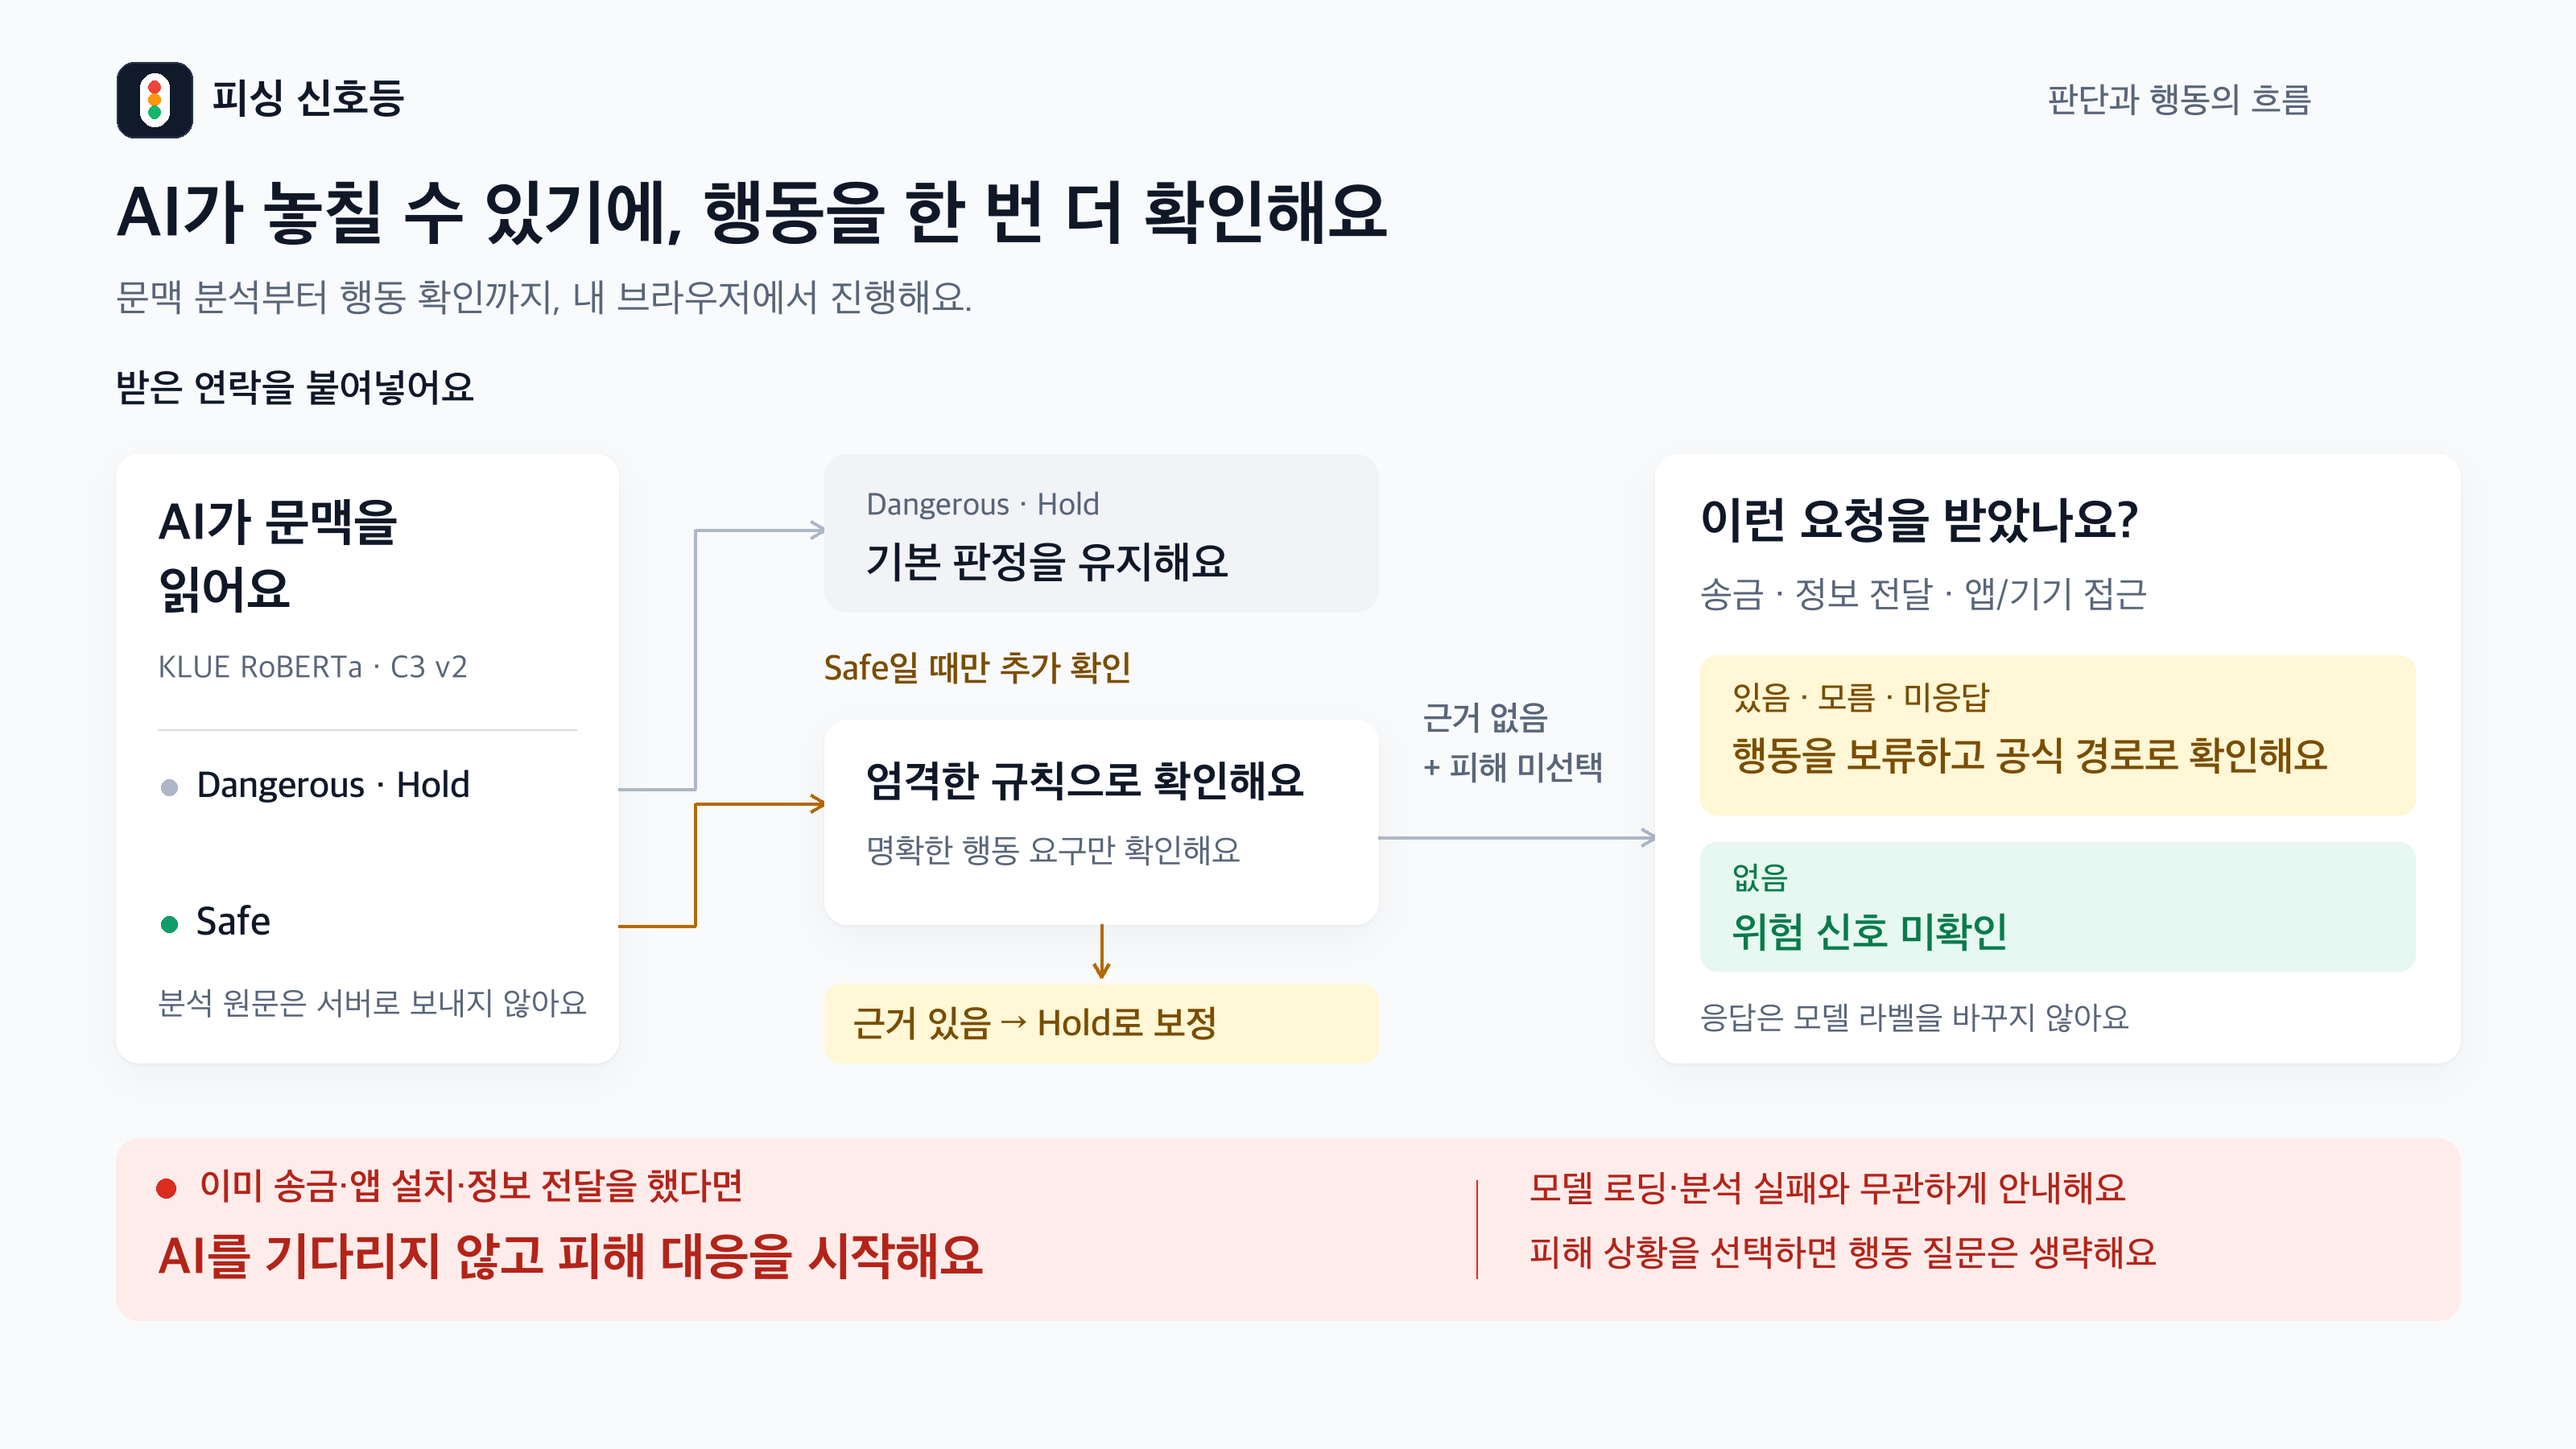
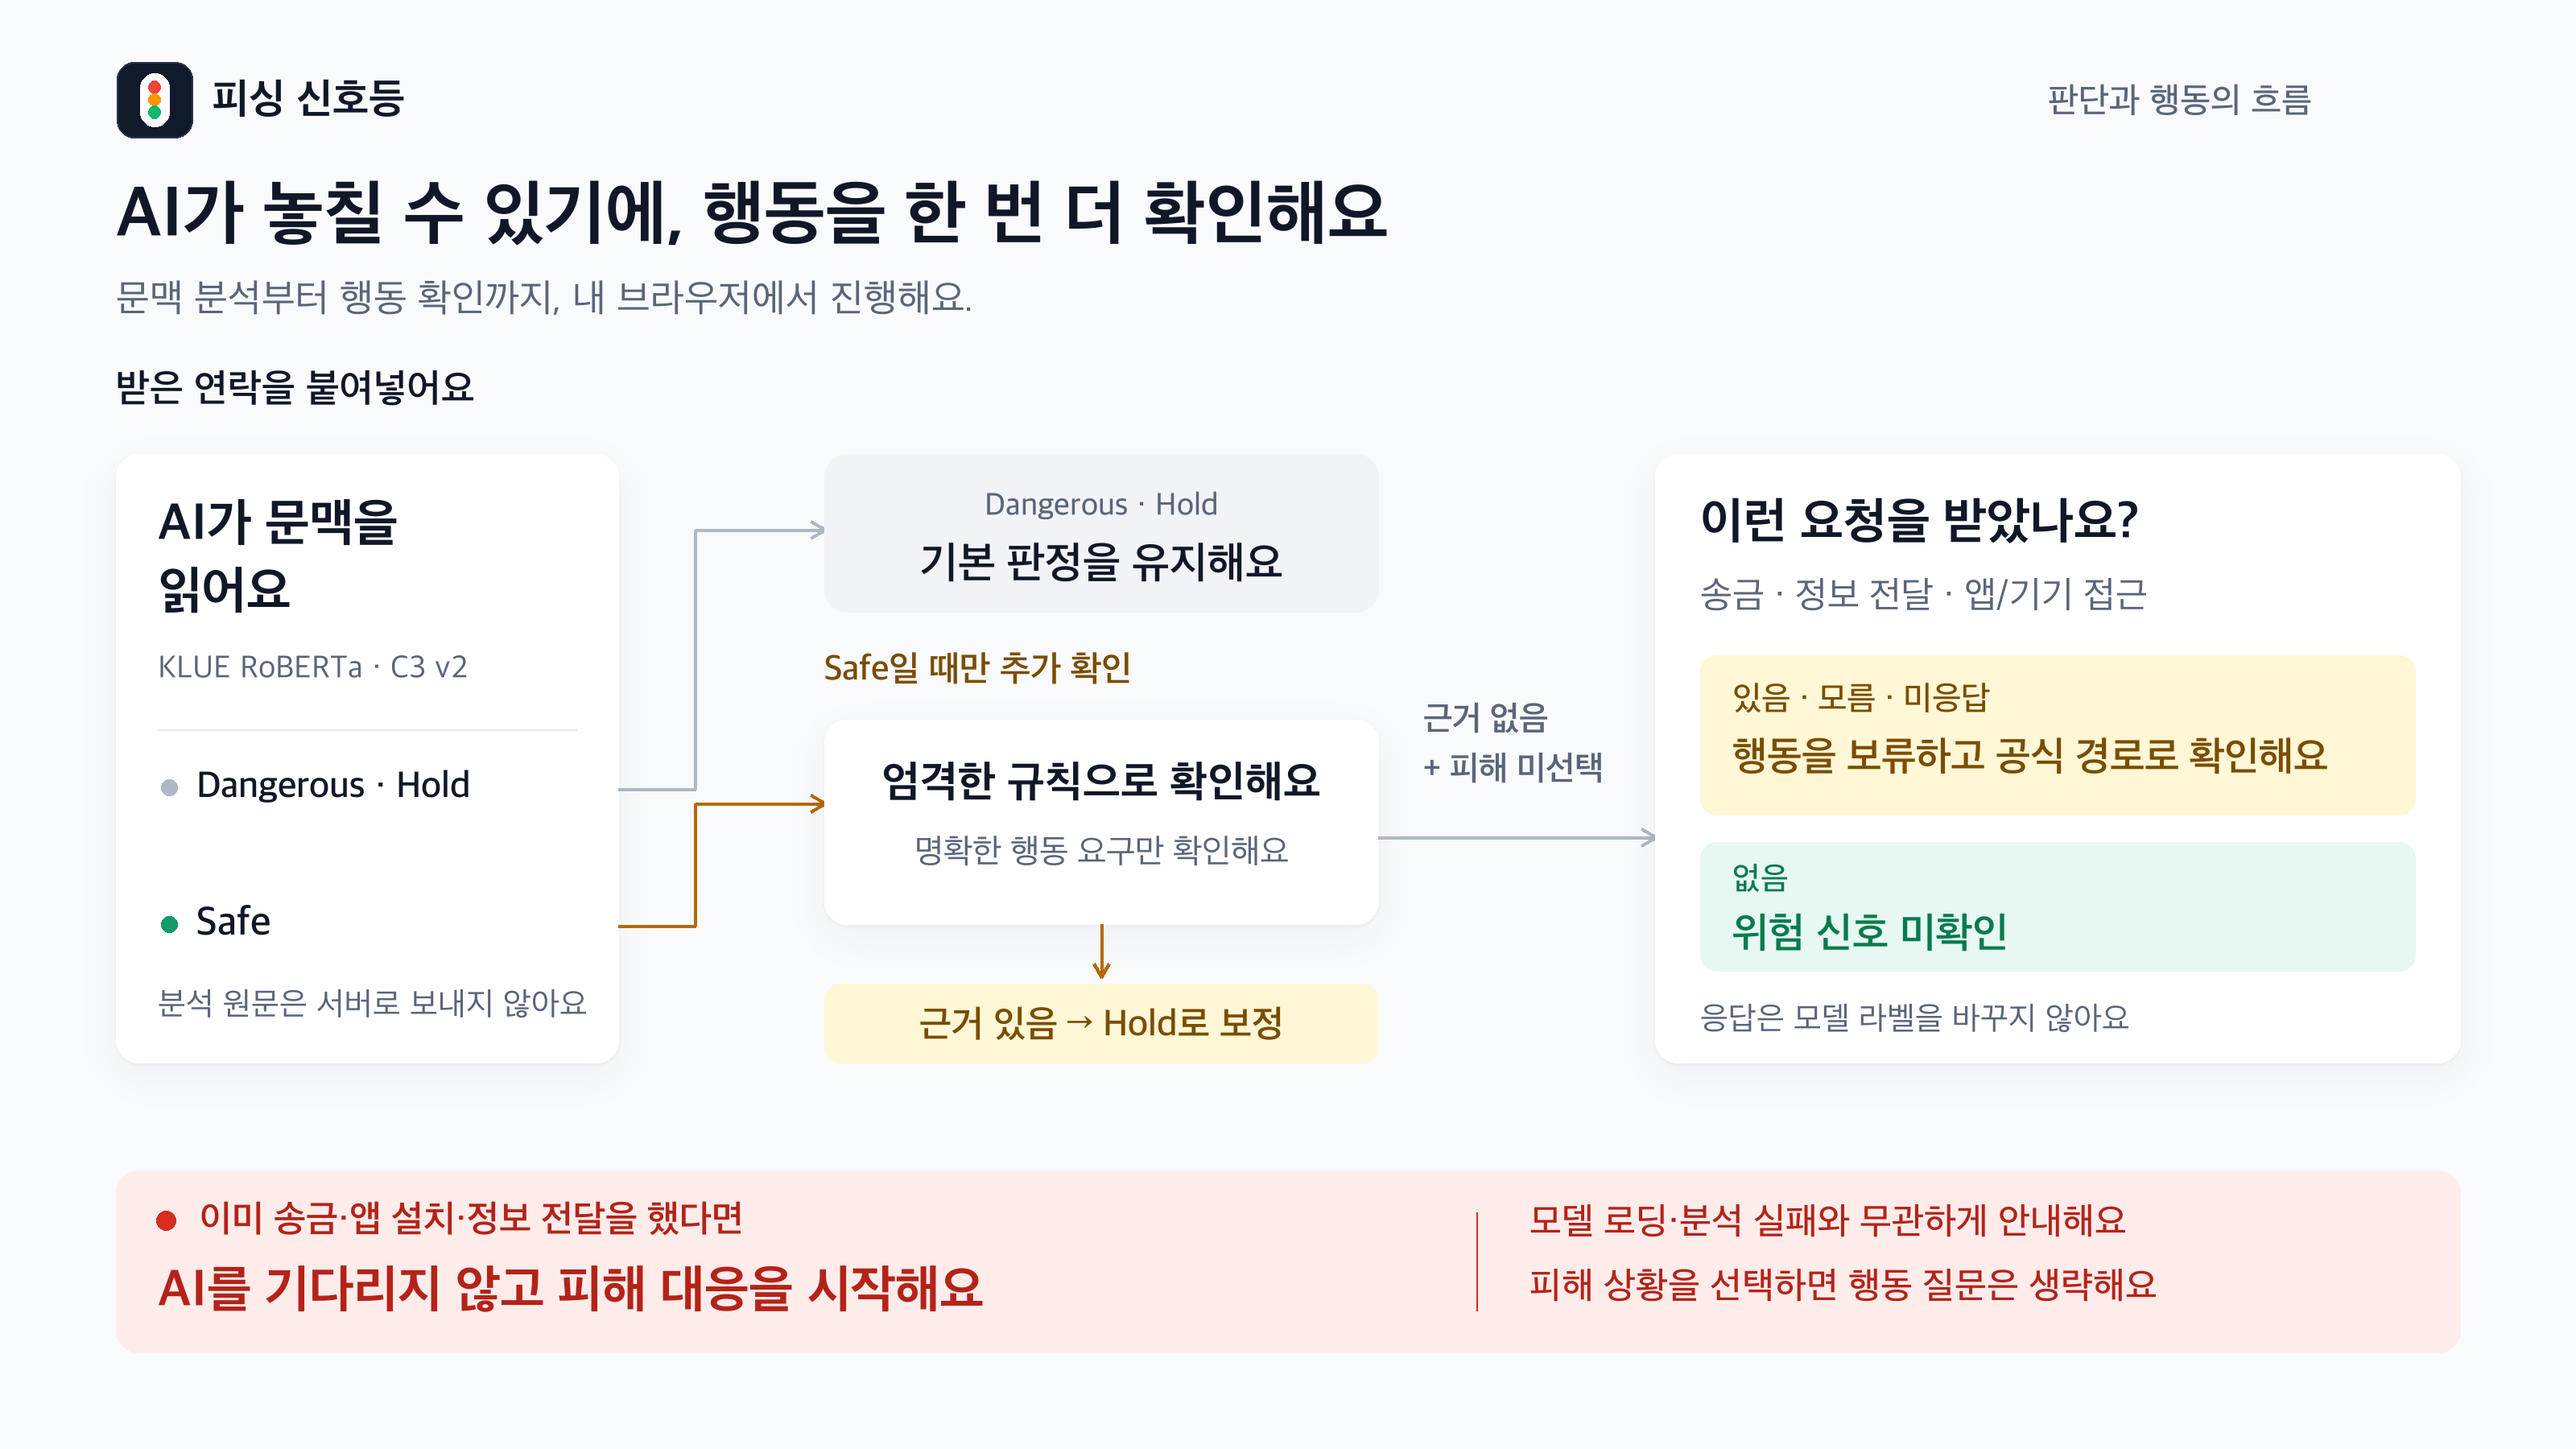
docs(showcase): 공유 표지와 흐름도 정렬 개선

diff --git a/README.md b/README.md
@@ -9,7 +9,7 @@
 원티드 AI Championship 2026 출품작 · 제작 박건호 · 2026.09.20 기준
 
 <p align="center">
-  <img src="assets/cover.png" alt="실제 운영 화면 — AI 분석 후에도 송금·정보 전달·앱 접근 요구를 사용자에게 확인합니다." width="100%" />
+  <img src="assets/cover.png" alt="피싱 신호등 — 이 문자, 믿어도 될까? 받은 문자나 메시지를 붙여넣고 내용 전체에서 위험 신호를 확인해 보세요." width="100%" />
 </p>
 
 ## 이 장면부터 확인해 주세요
